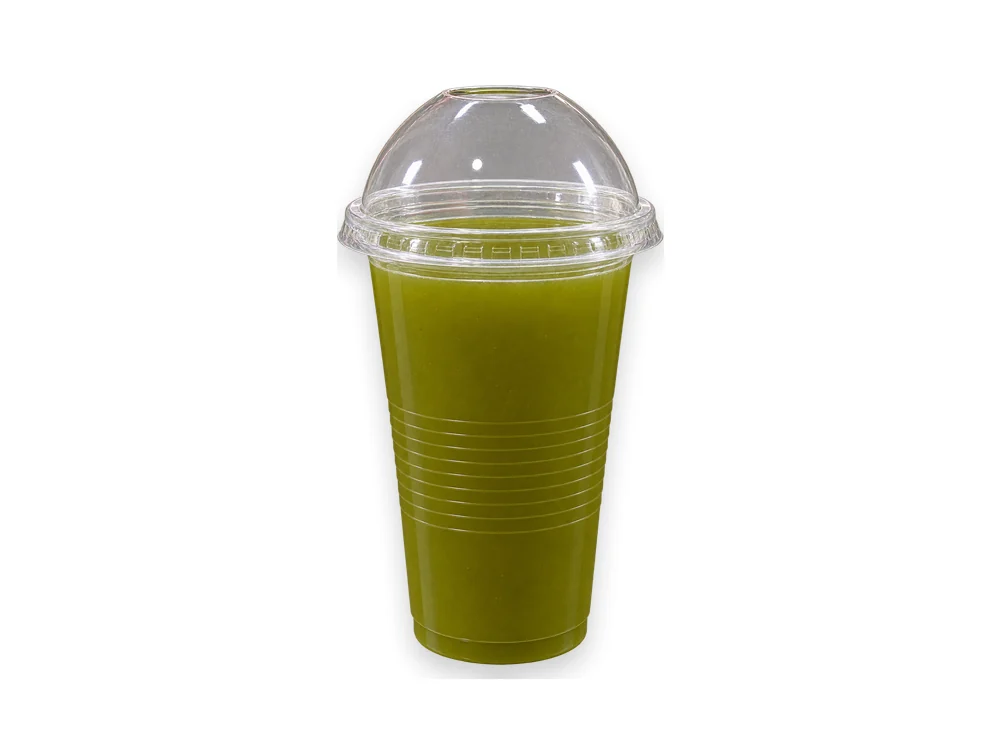
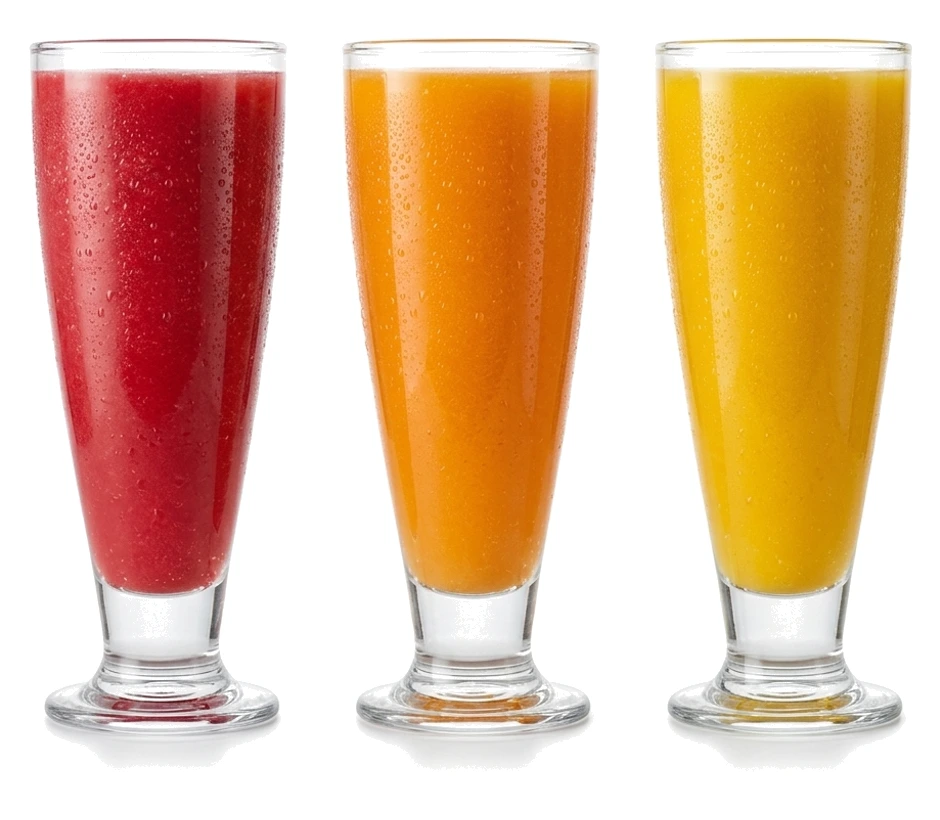
feat(images): update Smoothies (Tropical) to studio-isolated 3-smoothies image

diff --git a/index.html b/index.html
@@ -1926,7 +1926,7 @@
                     <!-- Smoothies (Tropical) -->
                     <div class="menu-card-luxury-wrapper"
                         style="background: var(--color-card-bg); border: 1px solid var(--color-border-gold); padding: 20px; cursor: pointer; display: flex; flex-direction: column; justify-content: space-between;">
-                        <img src="tropicalsmoothie.webp" alt="Smoothies (Tropical)" style="width: 100%; height: auto; max-height: 180px; object-fit: contain; border-radius: 0px !important; margin-bottom: 12px;" loading="lazy" decoding="async" />
+                        <img src="tropicalsmoothie.webp?v=20260920_v1" alt="Smoothies (Tropical)" style="width: 100%; height: auto; max-height: 180px; object-fit: contain; border-radius: 0px !important; margin-bottom: 12px;" loading="lazy" decoding="async" />
                         <div id="dish-smoothies-tropical" class="menu-dish-card"
                             style="display: flex; justify-content: space-between; align-items: flex-start; margin-bottom: 8px;">
                             <h4 style="font-family: var(--font-serif); font-size: 1.25rem; color: var(--color-cream); text-transform: uppercase;">
@@ -3280,7 +3280,7 @@
         </div>
     </div>
 
-    <script src="app.js?v=20260920_v7"></script>
+    <script src="app.js?v=20260920_v8"></script>
     <script>
         // Automatic Real-Time Synchronization for Top Header Cart Badge
         (function() {

diff --git a/app.js b/app.js
@@ -162,6 +162,7 @@ function getDishImage(dishName, dishDesc) {
     if (textLower.includes('espresso (double)') || textLower.includes('espresso double') || textLower.includes('esspressodouble') || textLower.includes('espresso (cold)') || textLower.includes('espresso cold')) return 'esspressodouble.webp';
     if (textLower.includes('milkshake (flavored)') || textLower.includes('milkshake flavored') || textLower.includes('chocolate milkshake')) return 'chocolatemilkshake.webp';
     if (textLower.includes('blueberry milkshake')) return 'blueberrymilkshake.webp';
+    if (textLower.includes('smoothies (tropical)') || textLower.includes('smoothies tropical') || textLower.includes('tropical smoothie') || textLower.includes('smoothie')) return 'tropicalsmoothie.webp?v=20260920_v1';
 
     // No auto-guessing for any other dishes until explicitly requested by user
     return null;
@@ -1099,7 +1100,7 @@ const RIBHOUSE_MASTER_DISHES = [
     "desc": "",
     "domId": "dish-smoothies-tropical",
     "id": "dish-smoothies-tropical",
-    "image": "tropicalsmoothie.webp",
+    "image": "tropicalsmoothie.webp?v=20260920_v1",
     "name": "Smoothies (Tropical)",
     "price": "200/=",
     "priceNum": 200
